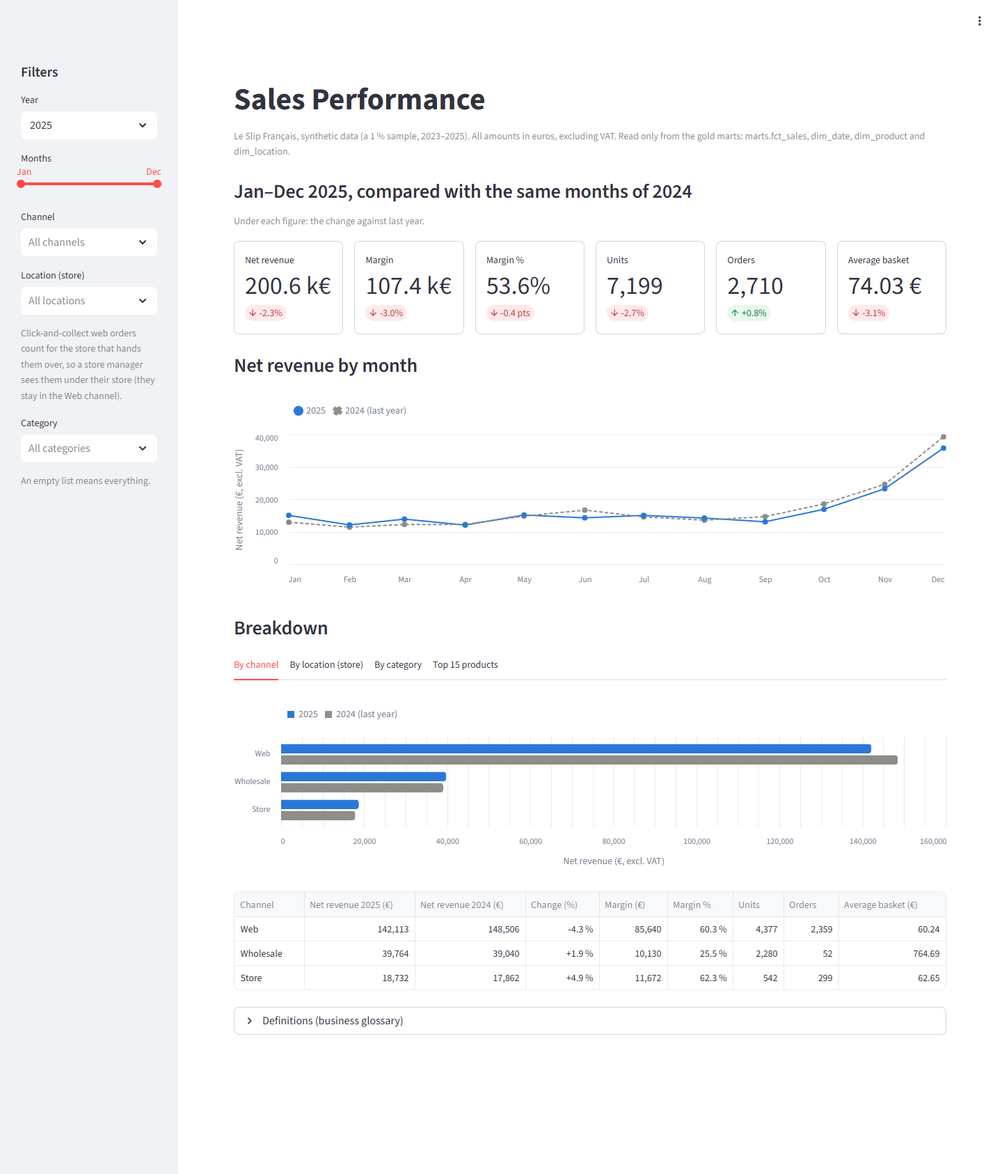
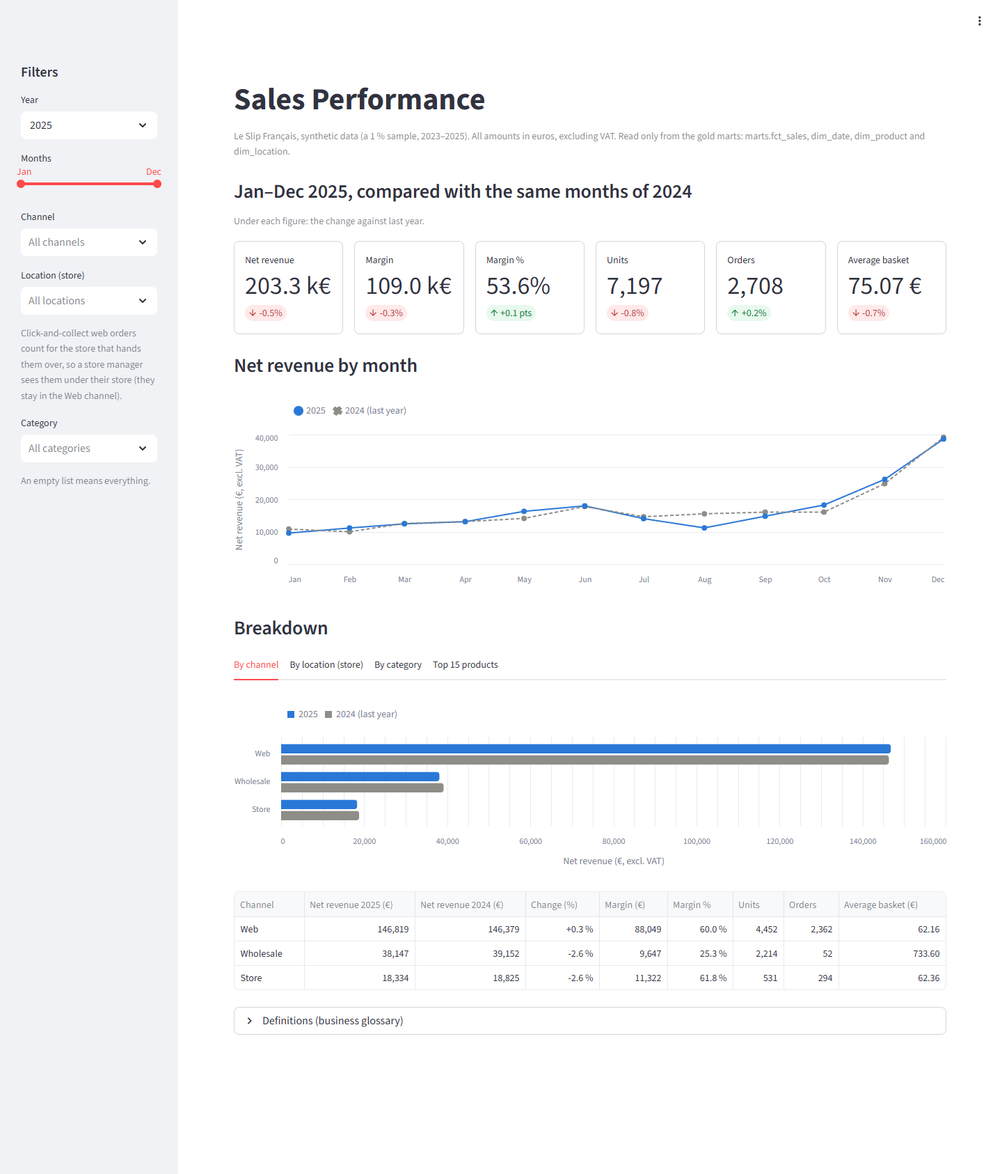
Tie generated stock and production to the sales; flag slow movers apart from overstock (#12)
- Generator: products have a popularity weight and sales lean to sizes M and L, so best
  sellers make most of the sales
- Stock follows each location's own sales with a reorder rule (seasonal forecast, 3-week
  factory lead time with 1 unit of safety stock, 1-week store restock, 8 % of SKUs
  over-targeted); production orders are what the warehouse orders
- Inventory mart: overstock is a cover above 180 days, as the glossary says; stock that sold
  nothing in 28 days is a slow mover (new glossary term)
- Tests for best sellers, stock following sales and slow movers; dashboard test picks the
  store with click-and-collect orders; screenshot retaken on the new data

diff --git a/poc/generate.py b/poc/generate.py
@@ -15,9 +15,11 @@ card, cashier name...) are not generated, as if the ELT tool's column blocking w
 """
 
 import argparse
+import bisect
 import collections
 import csv
 import json
+import math
 import random
 import shutil
 from dataclasses import dataclass
@@ -80,6 +82,13 @@ CLICK_SHARE = 0.10              # openers who also click
 INSTAGRAM_FOLLOWERS = 150_000   # at the start of 2023
 WHOLESALE_PRICE_SHARE = 0.5     # wholesale price as a share of the retail price excl. VAT
 WEB_CONVERSION = 0.02           # orders per session (Part 0, section 4)
+SIZE_WEIGHTS = (10, 30, 30, 20, 10)  # sales by size: mostly M and L
+POPULARITY_SPREAD = 1.5         # popularity of each product is log-normal: a few best sellers, a long tail
+LEAD_WEEKS = {"WH-AUB": 3, "ST-PAR": 1, "ST-TLS": 1}  # weeks to make a batch in the factory / to restock a store
+SAFETY_UNITS = {"WH-AUB": 1, "ST-PAR": 0, "ST-TLS": 0}  # units kept on top, for the SKUs a location sells
+TARGET_COVER_WEEKS = (6, 16)    # a reorder brings the stock back to this many weeks of sales
+OVERSTOCKED_SHARE = 0.08        # SKUs whose target is set far too high (a buying mistake)...
+OVERSTOCKED_WEEKS = (35, 60)    # ...at this many weeks of sales
 GL_ACCOUNTS = (  # French chart of accounts, 701: sales of finished products (the company makes its products)
     ("701100", "Web"), ("701200", "Store"), ("701300", "Wholesale"),
 )
@@ -148,6 +157,8 @@ class Generator:
         self.products = []
         self.shopify_ids = {}     # person index -> Shopify customer id
         self.web_buyers = []      # people who have bought online at least once
+        self.popularity = []      # cumulative sales weight of each SKU, for weighted picks
+        self.sold = collections.Counter()  # units sold per (location that hands them over, SKU, day)
         self.newcomers = []       # people who have not bought online yet, in random order
         # net revenue excl. VAT by (year, month) and channel, written to the general ledger
         self.net = {channel: collections.Counter() for _, channel in GL_ACCOUNTS}
@@ -185,16 +196,24 @@ class Generator:
             ))
 
     def make_products(self):
+        total = 0.0
         for pid in range(1, self.scaled(PRODUCTS) + 1):
             category = self.rng.choice(list(CATEGORIES))
             low, high = CATEGORIES[category]
             price = float(self.rng.randint(low, high))
             colour = self.rng.choice(COLOURS)
-            for size in SIZES:
+            popularity = self.rng.lognormvariate(0, POPULARITY_SPREAD)
+            for size, size_weight in zip(SIZES, SIZE_WEIGHTS):
                 self.products.append(Product(
                     f"LSF-{pid:03d}-{size}", pid, f"{category[:-1]} {colour} {pid:03d}", category, size, colour, price,
                     money(price / (1 + VAT) * self.rng.uniform(*UNIT_COST_SHARE)),
                 ))
+                total += popularity * size_weight
+                self.popularity.append(total)
+
+    def pick_product(self):
+        """A SKU, the best sellers more often than the others."""
+        return self.products[bisect.bisect(self.popularity, self.rng.random() * self.popularity[-1])]
 
     def pick_web_buyer(self):
         """A web buyer: either a past buyer coming back or a newcomer (about 4 in 10 buyers buy again)."""
@@ -210,7 +229,7 @@ class Generator:
         return self.rng.randrange(len(self.people))
 
     def pick_lines(self, max_lines):
-        return [(self.rng.choice(self.products), self.rng.choices((1, 2, 3), weights=(80, 17, 3))[0])
+        return [(self.pick_product(), self.rng.choices((1, 2, 3), weights=(80, 17, 3))[0])
                 for _ in range(self.rng.choices(range(1, max_lines + 1), weights=(58, 28, 10, 4)[:max_lines])[0])]
 
     # --- e-commerce: Shopify ---------------------------------------------------------------------
@@ -251,6 +270,8 @@ class Generator:
                 if not cancelled:
                     local = paris_local(created)
                     self.net["Web"][(local.year, local.month)] += subtotal / (1 + VAT)
+                    for line in lines:
+                        self.sold[(order["fulfillment_location"], line["sku"], local.date())] += line["quantity"]
                     refunded_at = created + timedelta(days=self.rng.randint(5, 40))
                     # a return, refunded a few weeks later (unless that is after the end of the data)
                     if self.rng.random() < RETURN_SHARE and refunded_at.year <= YEARS[-1]:
@@ -302,6 +323,8 @@ class Generator:
                     discount = money(product.price_incl_vat * qty * 0.1) if self.rng.random() < 0.1 else 0.0
                     line_total = money(product.price_incl_vat * qty - discount)
                     total += line_total
+                    if qty > 0:
+                        self.sold[(store, product.sku, day)] += qty
                     rows.append([ticket_no, moment.strftime("%d/%m/%Y %H:%M"), store, product.sku, qty,
                                  fr_number(product.price_incl_vat), fr_number(discount), fr_number(line_total), email])
             self.net["Store"][(day.year, day.month)] += total / (1 + VAT)
@@ -328,8 +351,13 @@ class Generator:
                 posting = date(year, 1, 2) + timedelta(weeks=week % 52, days=self.rng.randint(0, 4))
                 account = self.rng.choice(WHOLESALE_ACCOUNTS)[0]
                 doc += 1
-                for n, product in enumerate(self.rng.sample(self.products, self.rng.randint(3, 8)), 1):
+                products = {}
+                for _ in range(self.rng.randint(3, 8)):  # a few SKUs, mostly best sellers, each once
+                    product = self.pick_product()
+                    products[product.sku] = product
+                for n, product in enumerate(products.values(), 1):
                     qty = self.rng.choice((6, 6, 12))
+                    self.sold[("WH-AUB", product.sku, posting)] += qty
                     price = money(product.price_incl_vat / (1 + VAT) * WHOLESALE_PRICE_SHARE)
                     lines.append([f"SO{doc:05d}", n * 10000, account, posting.isoformat(), product.sku, qty,
                                   f"{price:.2f}", f"{money(price * qty):.2f}"])
@@ -337,31 +365,58 @@ class Generator:
         write_csv(erp / "sales_lines.csv", ["Document No.", "Line No.", "Sell-to Customer No.", "Posting Date",
                                             "No.", "Quantity", "Unit Price", "Line Amount"], lines)
 
-        # Production in the Aubervilliers factory: one batch per product and quarter
-        production, n = [], 0
-        for year in YEARS:
-            for quarter in range(4):
-                for product in self.products:
-                    if self.rng.random() < 0.5:
-                        n += 1
-                        finished = date(year, quarter * 3 + 1, 1) + timedelta(days=self.rng.randint(0, 80))
-                        production.append([f"PO{n:06d}", product.sku, self.rng.choice((24, 48, 96)),
-                                           finished.isoformat(), "WH-AUB"])
-        write_csv(erp / "production_orders.csv", ["No.", "Item No.", "Quantity", "Finished Date", "Location Code"],
-                  production)
-
-        # Stock: a full snapshot every Monday (Part 0: one snapshot a week per SKU and location)
-        level = {(p.sku, code): self.rng.randint(0, 60 if code == "WH-AUB" else 8)
-                 for p in self.products for code, _, _ in LOCATIONS}
+        # Stock and production. Every location follows a reorder rule based on its own sales: when the stock
+        # (plus what is already on its way) falls to the sales of the lead time, it is brought back up to a
+        # target cover. The factory makes what the warehouse orders (the production orders); stores are
+        # restocked in a week. A store only keeps the SKUs it sells. A full snapshot is taken every Monday
+        # (Part 0: one snapshot a week per SKU and location), before the week's sales.
+        mondays = []
         day = date(YEARS[0], 1, 2)
         while day.year <= YEARS[-1]:
-            rows = []
-            for (sku, code), qty in level.items():
-                rows.append([sku, code, qty])
-                change = self.rng.randint(-6, 6) if code == "WH-AUB" else self.rng.randint(-2, 2)
-                level[(sku, code)] = max(0, qty + change)
-            write_csv(erp / "stock" / f"stock_{day:%Y%m%d}.csv", ["Item No.", "Location Code", "Quantity"], rows)
+            mondays.append(day)
             day += timedelta(weeks=1)
+        weekly = collections.Counter()
+        for (code, sku, day), qty in self.sold.items():
+            weekly[(code, sku, min(max((day - mondays[0]).days // 7, 0), len(mondays) - 1))] += qty
+        totals = collections.Counter()
+        for (code, sku, _), qty in weekly.items():
+            totals[(code, sku)] += qty
+
+        # The planners' forecast: the SKU's average weekly sales at the location, times the season of the
+        # month when a reorder would arrive (Black Friday and Christmas need more stock).
+        season = [MONTH_WEIGHTS[monday.month - 1] * 12 / sum(MONTH_WEIGHTS) for monday in mondays]
+
+        snapshots, production = [[] for _ in mondays], []
+        for p in self.products:
+            for code, _, _ in LOCATIONS:
+                rate = totals[(code, p.sku)] / len(mondays)
+                weeks = self.rng.uniform(*(OVERSTOCKED_WEEKS if self.rng.random() < OVERSTOCKED_SHARE
+                                           else TARGET_COVER_WEEKS))
+                lead, safety = LEAD_WEEKS[code], SAFETY_UNITS[code] if rate else 0
+
+                def forecast(w):
+                    return rate * season[min(w + lead, len(mondays) - 1)]
+
+                def target(w):
+                    return max(math.ceil(forecast(w) * weeks), safety + 1) if rate else 0
+
+                stock, arriving = target(0), collections.Counter()
+                for w in range(len(mondays)):
+                    stock += arriving.pop(w, 0)
+                    snapshots[w].append([p.sku, code, stock])
+                    stock = max(0, stock - weekly[(code, p.sku, w)])
+                    on_the_way = sum(arriving.values())
+                    if rate and stock + on_the_way <= forecast(w) * lead + safety:
+                        quantity = max(target(w) - stock - on_the_way, 1)
+                        arriving[w + lead] += quantity
+                        if code == "WH-AUB" and w + lead < len(mondays):
+                            finished = mondays[w + lead] - timedelta(days=self.rng.randint(1, 4))
+                            production.append([p.sku, quantity, finished.isoformat(), code])
+        for monday, rows in zip(mondays, snapshots):
+            write_csv(erp / "stock" / f"stock_{monday:%Y%m%d}.csv", ["Item No.", "Location Code", "Quantity"], rows)
+        production.sort(key=lambda r: (r[2], r[0]))
+        write_csv(erp / "production_orders.csv", ["No.", "Item No.", "Quantity", "Finished Date", "Location Code"],
+                  [[f"PO{n:06d}", *row] for n, row in enumerate(production, 1)])
 
         # General ledger: monthly revenue per channel, as accounting credits (negative amounts)
         gl, entry = [], 0

diff --git a/poc/tests/test_inventory_mart.py b/poc/tests/test_inventory_mart.py
@@ -86,8 +86,8 @@ class InventoryMart(unittest.TestCase):
         snapshots = sorted(snapshot_date(p) for p in cls.landing.glob("erp/stock/stock_*.csv"))
         skus = [row["No."] for row in read_csv(cls.landing / "erp" / "items.csv")]
 
-        # The generated stock is not tied to the sales, so the cases of the acceptance criteria are set up
-        # in the ERP stock files, on SKUs that really sold, before the single build.
+        # The cases of the acceptance criteria are set up in the ERP stock files, on SKUs that really sold,
+        # before the single build, so each test knows its exact case.
         warehouse_demand = [(s, sku, demand_before(cls.sales, s, "WH-AUB", sku)) for s in snapshots for sku in skus]
         warehouse_demand = [case for case in warehouse_demand if case[2] > 0]
         # 1. Stockout: the warehouse has none left of a SKU that sold
@@ -112,7 +112,7 @@ class InventoryMart(unittest.TestCase):
         cls.build = run_dbt(cls.warehouse, tmp / "target", "build")
         cls.mart = {(s, loc, sku): row for s, loc, sku, *row in cls.query("""
             select snapshot_date, location, sku, stock_on_hand, demand_units, stock_cover_days, sell_through_rate,
-                   is_stockout, is_stockout_risk, is_overstock
+                   is_stockout, is_stockout_risk, is_overstock, is_slow_mover
             from marts.fct_stock_snapshot""")}
 
     @classmethod
@@ -125,7 +125,7 @@ class InventoryMart(unittest.TestCase):
             return con.execute(sql, list(params)).fetchall()
 
     def row(self, snapshot, location, sku):
-        names = ("stock", "demand", "cover", "sell_through", "stockout", "stockout_risk", "overstock")
+        names = ("stock", "demand", "cover", "sell_through", "stockout", "stockout_risk", "overstock", "slow_mover")
         return dict(zip(names, self.mart[(snapshot, location, sku)]))
 
     def test_build_is_green(self):
@@ -170,8 +170,8 @@ class InventoryMart(unittest.TestCase):
 
     def test_every_row_follows_the_glossary_definitions(self):
         flags = collections.Counter()
-        for (snapshot, location, sku), (stock, demand, cover_days, sell_through, stockout, risk, overstock) \
-                in self.mart.items():
+        for (snapshot, location, sku), (stock, demand, cover_days, sell_through, stockout, risk, overstock,
+                                        slow_mover) in self.mart.items():
             expected = demand_before(self.sales, snapshot, location, sku)
             key = (snapshot, location, sku)
             self.assertEqual(demand, expected, key)
@@ -184,9 +184,17 @@ class InventoryMart(unittest.TestCase):
                 self.assertAlmostEqual(float(sell_through), demand / (demand + stock), delta=0.0001, msg=key)
             self.assertEqual(stockout, stock == 0 and demand > 0, key)
             self.assertEqual(risk, stock > 0 and days < RISK_DAYS, key)
-            self.assertEqual(overstock, stock > 0 and days > OVERSTOCK_DAYS, key)
-            flags.update({"stockout": stockout, "risk": risk, "overstock": overstock})
-        self.assertTrue(all(flags[name] for name in ("stockout", "overstock")), flags)
+            self.assertEqual(overstock, stock > 0 and demand > 0 and days > OVERSTOCK_DAYS, key)
+            self.assertEqual(slow_mover, stock > 0 and demand == 0, key)
+            flags.update({"stockout": stockout, "risk": risk, "overstock": overstock, "slow mover": slow_mover})
+        self.assertTrue(all(flags[name] for name in ("stockout", "overstock", "slow mover")), flags)
+
+    def test_stock_that_sold_nothing_is_a_slow_mover_not_an_overstock(self):
+        idle = [row for row in self.mart.values() if row[0] > 0 and row[1] == 0]
+        self.assertTrue(idle)
+        for stock, demand, cover_days, _, stockout, risk, overstock, slow_mover in idle:
+            self.assertIsNone(cover_days)
+            self.assertEqual((slow_mover, overstock, stockout, risk), (True, False, False, False))
 
     def test_production_matches_the_erp_production_orders(self):
         orders = read_csv(self.landing / "erp" / "production_orders.csv")

diff --git a/poc/tests/test_generate.py b/poc/tests/test_generate.py
@@ -151,6 +151,32 @@ class FullSample(unittest.TestCase):
             self.assertNotIn(f'"{field}"', text)
             self.assertNotIn(f";{field}", text)
 
+    def test_best_sellers_make_most_of_the_sales(self):
+        units = collections.Counter()
+        for o in self.orders:
+            for line in o["line_items"]:
+                units[line["sku"]] += line["quantity"]
+        top = sum(n for _, n in units.most_common(len(units) // 5))
+        self.assertGreater(top / sum(units.values()), 0.6)  # the top 20 % of SKUs sold online
+
+    def test_stock_follows_the_sales_of_each_location(self):
+        files = sorted((self.out / "erp" / "stock").glob("stock_*.csv"))
+        last = {(r["Item No."], r["Location Code"]): int(r["Quantity"]) for r in csv_rows(files[-1])}
+        sold_in_store = {(r["sku"], r["magasin"]) for _, r in self.tickets}
+        sold_in_store |= {(line["sku"], o["fulfillment_location"]) for o in self.orders
+                          for line in o["line_items"] if o["fulfillment_location"] != "WH-AUB"}
+        # a store only keeps the SKUs it sells
+        for (sku, location), quantity in last.items():
+            if location != "WH-AUB" and quantity:
+                self.assertIn((sku, location), sold_in_store)
+        # the factory makes what the warehouse needs: about as many units as it sends out, not many times more
+        produced = sum(int(r["Quantity"]) for r in csv_rows(self.out / "erp" / "production_orders.csv"))
+        shipped = sum(line["quantity"] for o in self.orders if not o["cancelled_at"]
+                      and o["fulfillment_location"] == "WH-AUB" for line in o["line_items"])
+        shipped += sum(int(r["Quantity"]) for r in csv_rows(self.out / "erp" / "sales_lines.csv"))
+        self.assertLess(produced, 1.5 * shipped)
+        self.assertEqual({r["Location Code"] for r in csv_rows(self.out / "erp" / "production_orders.csv")}, {"WH-AUB"})
+
     def test_stock_is_a_weekly_full_snapshot(self):
         files = sorted((self.out / "erp" / "stock").glob("stock_*.csv"))
         self.assertEqual(len(files), 157)  # every Monday from 2 January 2023 to 29 December 2025

diff --git a/poc/tests/test_dashboard.py b/poc/tests/test_dashboard.py
@@ -150,11 +150,13 @@ class DashboardFigures(unittest.TestCase):
             self.assertAlmostEqual(row["average_basket" + suffix], float(net) / orders, places=6)
 
     def test_a_store_sees_the_click_and_collect_orders_it_hands_over(self):
-        web = sales.summary(self.con, sales.Filters(self.year, channels=("Web",), locations=("ST-PAR",))).iloc[0]
-        net, orders = self.mart("""
-            select sum(net_revenue), count(distinct case when not is_return then order_id end)
-            from marts.fct_sales where is_click_and_collect and location = 'ST-PAR' and year(order_date) = ?""",
-            self.year)
+        # the store that handed over the most click-and-collect orders this year (the small sample may have none
+        # in one of them)
+        store, net, orders = self.mart("""
+            select location, sum(net_revenue), count(distinct case when not is_return then order_id end) as orders
+            from marts.fct_sales where is_click_and_collect and year(order_date) = ?
+            group by location order by orders desc, location limit 1""", self.year)
+        web = sales.summary(self.con, sales.Filters(self.year, channels=("Web",), locations=(store,))).iloc[0]
         self.assertGreater(orders, 0)
         self.assertAlmostEqual(web.net_revenue, float(net), places=2)
         self.assertEqual(web.orders, orders)

diff --git a/poc/README.md b/poc/README.md
@@ -53,12 +53,15 @@ Part 0 gives the volumes, the basket, the share of repeat buyers and the channel
 | Assumption | Value |
 |---|---|
 | Sales by month | peaks in November (Black Friday) and December (Christmas) |
+| Best sellers | each product's popularity is log-normal: the top 20 % of SKUs make about three quarters of the units sold |
+| Sales by size | S 10 %, M 30 %, L 30 %, XL 20 %, XXL 10 % |
 | Free shipping | from 69 € incl. VAT; 4.90 € below |
 | Web orders with a promotion | 2 in 5, at 10 % or 20 % |
 | Web orders cancelled / collected in a store / with a return | 2 % / 5 % / 8 % |
 | Store tickets in Paris and Toulouse | 60 % / 40 % |
 | Store tickets sent by email / store lines that are a return | 60 % / 3 % |
 | Production cost | 30 % to 45 % of the price excl. VAT |
+| Stock and production | each location reorders from its own sales: when its stock (plus what is on the way) falls to the forecast sales of the lead time, it is brought back to 6 to 16 weeks of sales; 8 % of SKUs get 35 to 60 weeks by mistake. The forecast follows the season of the month. The factory takes 3 weeks and makes what the warehouse orders (the production orders); a store is restocked in 1 week and only keeps the SKUs it sells; the warehouse keeps 1 unit of safety stock |
 | Wholesale price | 50 % of the retail price excl. VAT |
 | People subscribed to emails / opening a campaign | 35 % / 30 % (the Part 3 assumptions) |
 | People with a Klaviyo profile / with another email in Klaviyo | 70 % / 10 % |
@@ -104,7 +107,7 @@ The rules, from the glossary of [Part 6](../docs/deliverables/06-governance-gdpr
 - **Margin** is net revenue minus quantity × the unit cost of the ERP.
 - **Customer key** is a **placeholder** until the golden customer (issue #11): a hash of the Shopify account id. Store tickets stay anonymous and wholesale accounts are companies, so they have none.
 
-**Reconciliation with finance (story 5).** `dbt/tests/assert_sales_reconcile_with_erp_finance.sql` compares the mart with the general ledger for every month and channel. The gap must stay within **0.5 %** of the ERP figure: the tolerance of [Part 4](../docs/deliverables/04-transformation-plan.md) (§4), set as `reconciliation_tolerance` in `dbt/dbt_project.yml`. On the generated data the largest gap is about 20 cents in a month (cent rounding per line). The end-to-end test shows that a month booked 0.6 % higher in the ledger makes `dbt build` fail.
+**Reconciliation with finance (story 5).** `dbt/tests/assert_sales_reconcile_with_erp_finance.sql` compares the mart with the general ledger for every month and channel. The gap must stay within **0.5 %** of the ERP figure: the tolerance of [Part 4](../docs/deliverables/04-transformation-plan.md) (§4), set as `reconciliation_tolerance` in `dbt/dbt_project.yml`. On the generated data the largest gap is a few cents in a month (cent rounding per line). The end-to-end test shows that a month booked 0.6 % higher in the ledger makes `dbt build` fail.
 
 ### The Inventory Optimization mart
 
@@ -112,7 +115,7 @@ The third use case (issue #12), in `dbt/models/marts/inventory`. It reuses `dim_
 
 | Table | Grain | What |
 |---|---|---|
-| `fct_stock_snapshot` | snapshot date × location × SKU | stock on hand from the ERP snapshot, demand of the last 28 days, stock cover, sell-through rate, and the stockout, stockout risk and overstock flags |
+| `fct_stock_snapshot` | snapshot date × location × SKU | stock on hand from the ERP snapshot, demand of the last 28 days, stock cover, sell-through rate, and the stockout, stockout risk, overstock and slow mover flags |
 | `fct_production` | one production order | the units of a SKU the factory finished on a day |
 
 The rules, from the glossary of [Part 6](../docs/deliverables/06-governance-gdpr.md):
@@ -121,11 +124,12 @@ The rules, from the glossary of [Part 6](../docs/deliverables/06-governance-gdpr
 - **Demand is counted where the stock leaves**, the location of `fct_sales`: the warehouse for shipped web orders and wholesale, the store for till sales and click-and-collect. So the warehouse's cover counts the online demand (most of the demand), and a store's cover counts its till sales **plus** the web orders collected there, never its till sales only (story 17). Comparing stock in one place with sales of the whole network would hide which location runs out.
 - **Stock cover** = stock on hand ÷ (demand ÷ 28), in days. It is empty when nothing sold in 28 days: the cover is endless.
 - **Sell-through rate** = units sold ÷ (stock at the start + units received) over the 28 days. Everything that was there or came in was either sold or is still on hand, so this is units sold ÷ (units sold + stock on hand). It needs no stock movements, which the ERP export does not give.
-- **Stockout**: zero stock while at least one unit sold. **Stockout risk**: stock left, but less than **14 days** of cover. **Overstock**: more than **180 days** of cover, including stock that sold nothing in 28 days.
+- **Stockout**: zero stock while at least one unit sold. **Stockout risk**: stock left, but less than **14 days** of cover. **Overstock**: more than **180 days** of cover.
+- **Slow mover**: stock left that sold nothing in 28 days, so its cover cannot be computed. It is a flag of its own, not an overstock: in a 1 % sample most SKUs sell less than once a month, and counting them all as overstock would hide the SKUs that really have too much stock.
 
 The 28, 180 and 14 days are `demand_window_days`, `overstock_cover_days` and `stockout_risk_cover_days` in `dbt/dbt_project.yml`. 28 and 180 come from the glossary; 14 days is our assumption (two weeks for the factory or the warehouse to send more), to be agreed with the supply chain director. The supply planner's list (story 18) is the latest snapshot filtered on the flags.
 
-On the generated data, about 9 rows in 10 are overstock: the generator draws stock levels without looking at the sales, and they are high for a 1 % sample of the sales. The rules are what matters here; the end-to-end tests set up each case in the stock files.
+On the generated data, the stock follows the sales (see the assumptions of the generator). At the last snapshot, the warehouse holds 1,122 SKUs: 26 are out of stock, 20 at risk, 22 overstocked, and 775 are slow movers, because a 1 % sample of the sales leaves most SKUs with less than one sale a month. The end-to-end tests also set up each case in the stock files, so each test knows its exact case.
 
 Every source declares its refresh schedule and freshness thresholds in `dbt/models/staging/_sources.yml`, set from Part 4 §5: sources refreshed every 15 minutes warn after 1 hour, hourly sources after 3 hours, daily sources after 26 hours.
 
@@ -164,11 +168,11 @@ poc/.venv/bin/python -m unittest discover poc/tests           # macOS / Linux
 
 (Any Python runs the generator tests; the others are skipped without dbt and DuckDB.)
 
-- `test_generate.py`: same seed gives the same files, volumes match Part 0, the data looks like the company, and each source has its quirks.
+- `test_generate.py`: same seed gives the same files, volumes match Part 0, the data looks like the company (best sellers make most of the sales; stock follows the sales of each location and the factory makes about what the warehouse ships), and each source has its quirks.
 - `test_ingest.py`: every record is loaded unchanged with its metadata, a second run loads only new files, a changed file replaces its old rows, and paths with an apostrophe work.
 - `test_pipeline.py`: `dbt build` is green, the store sales match the tills, a Z report one cent off is caught, all 19 freshness checks pass, and a late source is flagged against its own schedule (2 hours late is a warning for the tills but fine for the ERP; 4 days late is an error for web analytics).
   For the sales mart, against the generated source files: the net revenue of the mart is the store plus web net sales of the files; it reconciles with the ERP ledger, and a ledger month 0.6 % off is caught; every click-and-collect order is credited to its store; every return is on its refund day and lowers net revenue; the monthly table carries the right previous month and last year; and the mart has every column planned in `governance/marts.csv`.
-- `test_inventory_mart.py`: the inventory mart, against the source files, with a few stock levels changed in the ERP files to set up each case. A SKU with zero stock that sold is a stockout; a store's cover counts the web orders collected there, not only its till sales, and the warehouse's demand is the web and wholesale units it ships; a cover just above 180 days is overstock and one at or below it is not; on every row, stock, demand, cover, sell-through and the three flags follow the glossary; production matches the ERP production orders; and the mart has every column planned in `governance/marts.csv`.
+- `test_inventory_mart.py`: the inventory mart, against the source files, with a few stock levels changed in the ERP files to set up each case. A SKU with zero stock that sold is a stockout; a store's cover counts the web orders collected there, not only its till sales, and the warehouse's demand is the web and wholesale units it ships; a cover just above 180 days is overstock and one at or below it is not; stock that sold nothing is a slow mover, not an overstock; on every row, stock, demand, cover, sell-through and the four flags follow the glossary; production matches the ERP production orders; and the mart has every column planned in `governance/marts.csv`.
 - `test_dashboard.py`: the dashboard refuses raw, staging and intermediate tables and files, every query it sends reads only `marts` tables, the page runs no SQL of its own, and the warehouse is read-only. On a small generated warehouse, its figures match the mart: the totals and last year match `fct_sales_monthly`; a store, a category and some months match `fct_sales` this year and last year (net revenue, orders, average basket); a store sees the click-and-collect orders it hands over; channels and locations add up to the total; and the page opens without error, also with a store filter.
 
 The same seed gives the same data with the same Python version; Python only promises the same random numbers within a version.

diff --git a/docs/deliverables/06-governance-gdpr.md b/docs/deliverables/06-governance-gdpr.md
@@ -8,7 +8,7 @@ The rules are kept as files in `governance/`, so the platform can read them (for
 
 | File | Content |
 |---|---|
-| `glossary.csv` | 60 business terms, with definitions and owners |
+| `glossary.csv` | 61 business terms, with definitions and owners |
 | `marts.csv` | every column of the planned report tables, linked to a glossary term |
 | `mdm_rules.csv` | customer matching and "which value wins" rules |
 | `pii_inventory.csv` | every personal-data field of the 7 sources and its treatment |
@@ -37,7 +37,7 @@ The glossary gives **one definition per term and one owner** who decides if it c
 | **Sell-through rate** | Units sold ÷ (stock at start + units received) over a period | Supply chain director |
 | **Stockout / Overstock** | Zero stock while the SKU sold in the last 28 days / stock cover above 180 days | Supply chain director |
 
-**Coverage check.** We planned the report tables of the proof of concept in `marts.csv`: 5 marts (Sales, Customer, Inventory, Marketing, Support) with 64 columns in 9 tables (sales, product, customer, stock, production, campaigns, web, social, support). **Every mart name and every column is linked to a glossary term**, and a test fails if someone adds one without a definition.
+**Coverage check.** We planned the report tables of the proof of concept in `marts.csv`: 5 marts (Sales, Customer, Inventory, Marketing, Support) with 65 columns in 9 tables (sales, product, customer, stock, production, campaigns, web, social, support). **Every mart name and every column is linked to a glossary term**, and a test fails if someone adds one without a definition.
 
 ## 2. Single customer view (MDM)
 
